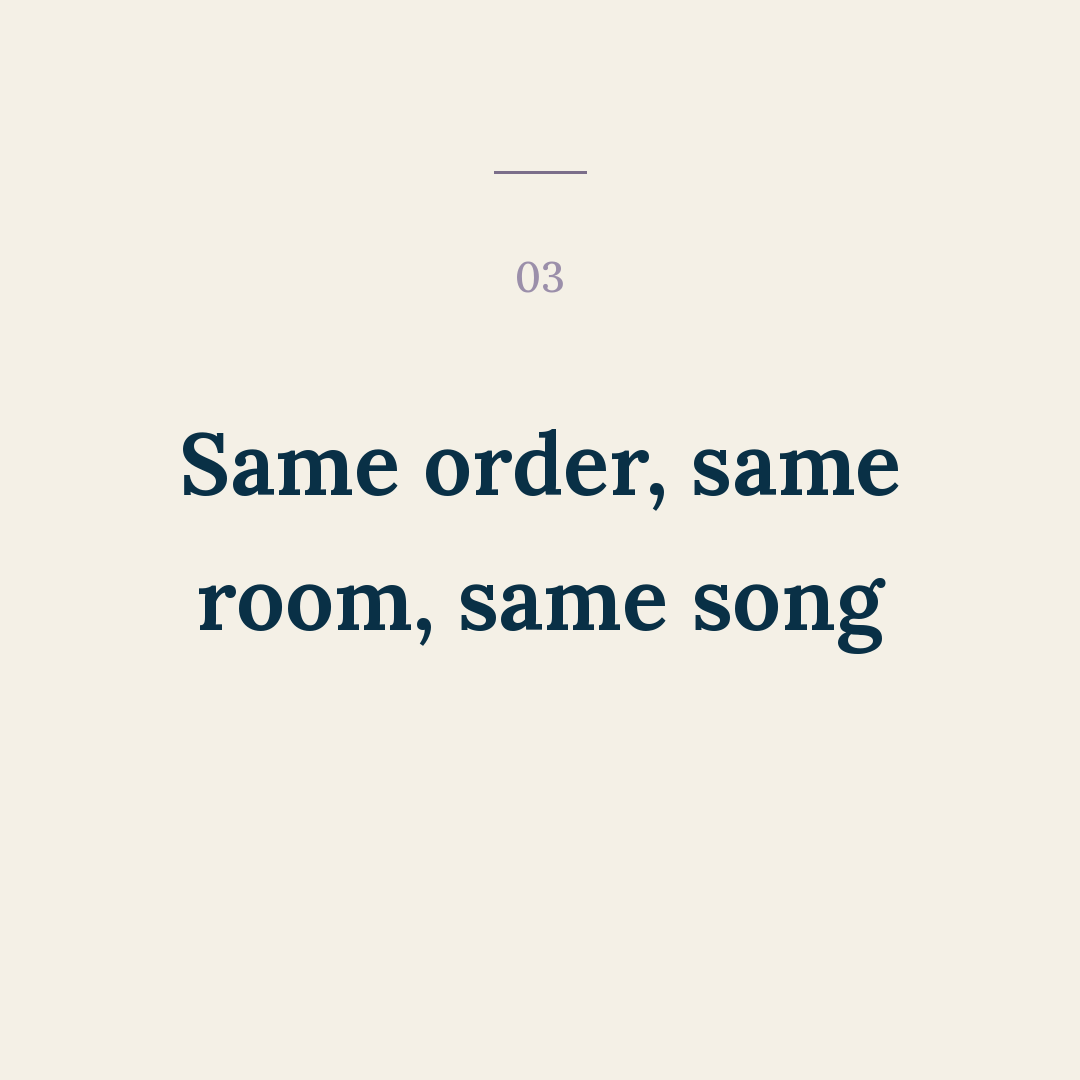
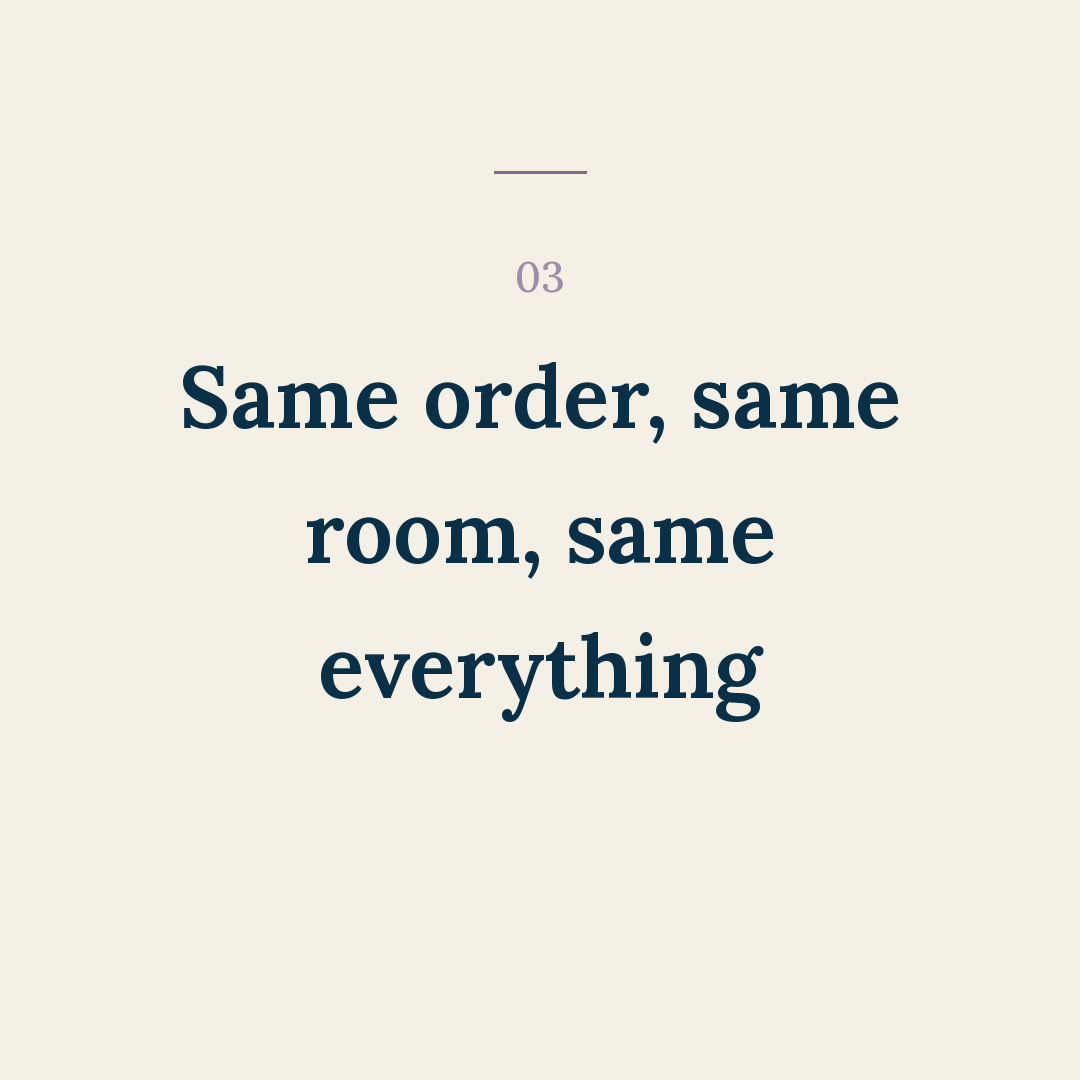
Add 37-if-bedtime-feels-impossible (37 - If Bedtime Feels Impossible)

Changed region(s): [[0.1528, 0.3361, 0.8556, 0.6722]]

diff --git a/posts/37-if-bedtime-feels-impossible/slides.md b/posts/37-if-bedtime-feels-impossible/slides.md
@@ -1,18 +1,21 @@
 # 37 - If Bedtime Feels Impossible
 
 Format: carousel · bg cream · lane Sleep · CTA Save · hook #53
+Revised 2026-08-09 from Ben's review workbook (post-review-2026-08-10.numbers).
 
 ## Cover
 If bedtime feels impossible every night…
 
 ## Items
-01  You're not behind — newborn nights are meant to be uneven
+01  How to help your newborn nights run a little more smoothly…
 02  Shrink the routine to three things you can do half-asleep
-03  Same order, same room, same song
+03  Same order, same room, same everything
 04  Dim the room before you dim the noise
-05  A rough night doesn't undo the good ones
+05  Go in with the expectation that some nights are just going to be messy… so you're ready to give compassion to yourself and your baby
 
 ## Closer (save)
 Save this for the next impossible bedtime
+
+Note: item 5 renders on 4 lines (opt-in `max_lines=4`) — Ben asked to keep the copy verbatim and let the type shrink.
 
 Rendered slide-1..slide-7 (weight 650, cover byline on).
